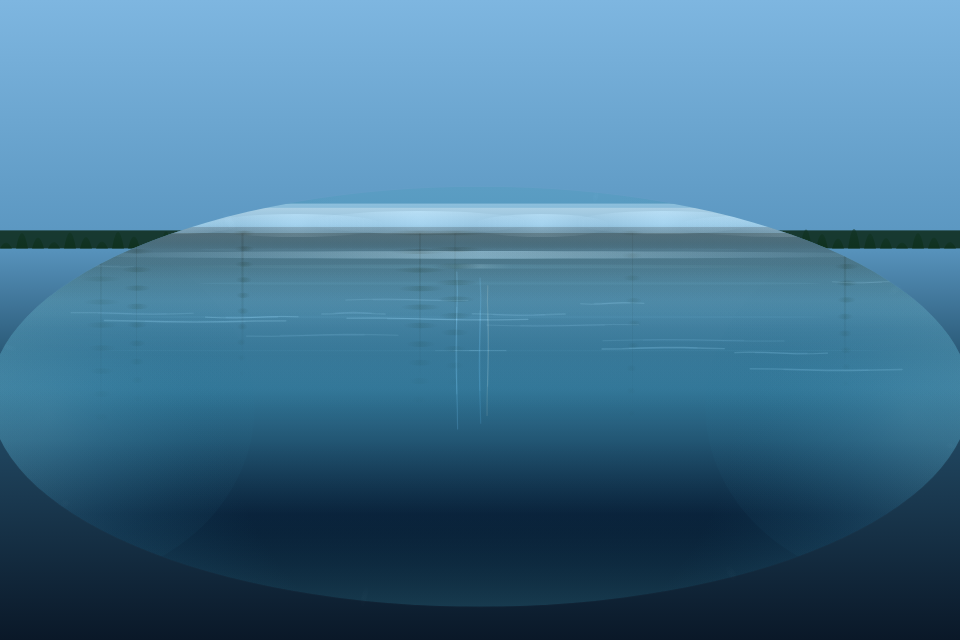
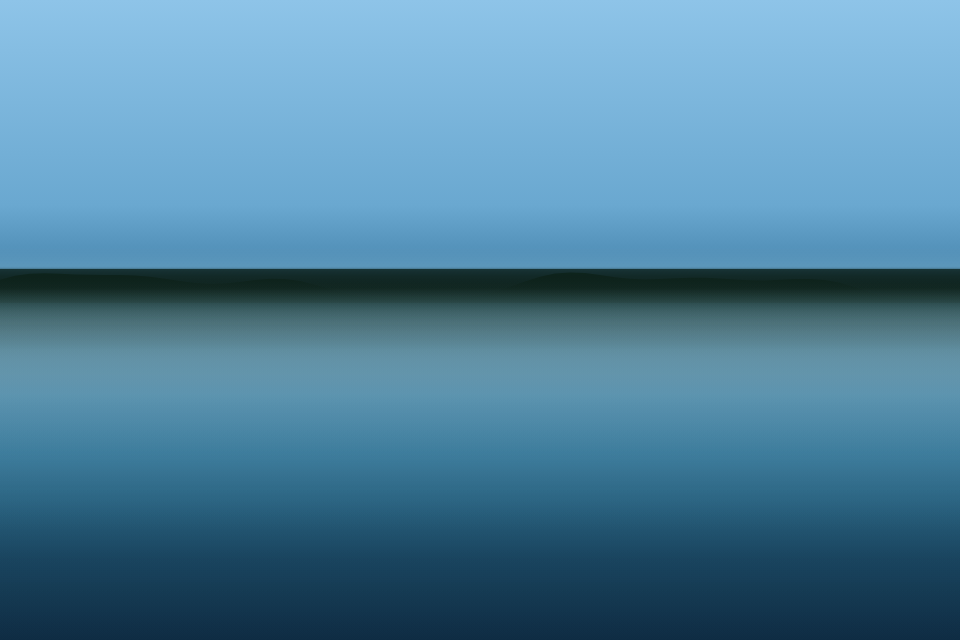
Polish lake: soft-rect mask, continuous mirror, Fresnel sky band
Replace oval/radial lens mask with feathered soft-rect alpha. Continuous
treeline+sky mirror without large oval sheets. Stronger Fresnel graze and
micro mottling. Capture bg uses soft continuous canopy; full-bleed low foam.

diff --git a/src/effects/water.ts b/src/effects/water.ts
@@ -218,9 +218,9 @@ function drawFresnel(
   const a = reflectivity * I;
 
   const graze = ctx.createLinearGradient(cx, cy - hh, cx, cy - hh * 0.1);
-  graze.addColorStop(0, withAlpha(colorHorizon, 0.38 * a * (0.7 + calm * 0.3)));
-  graze.addColorStop(0.3, withAlpha(colorSky, 0.28 * a));
-  graze.addColorStop(0.65, withAlpha(colorSky, 0.1 * a));
+  graze.addColorStop(0, withAlpha(colorHorizon, 0.48 * a * (0.7 + calm * 0.3)));
+  graze.addColorStop(0.25, withAlpha(colorSky, 0.35 * a));
+  graze.addColorStop(0.6, withAlpha(colorSky, 0.12 * a));
   graze.addColorStop(1, withAlpha(colorSky, 0));
   ctx.fillStyle = graze;
   ctx.fillRect(cx - hw, cy - hh, hw * 2, hh * 0.9);
@@ -258,12 +258,13 @@ function drawContinuousMirror(
 
   ctx.save();
 
-  // Sky mirror — continuous vertical flip of sky (muted; no bright rim)
+  // Sky mirror — continuous vertical flip of sky (pale band under trees)
   const sky = ctx.createLinearGradient(cx, waterline, cx, waterline + mirrorH);
-  sky.addColorStop(0, withAlpha(colorHorizon, 0.55 * a));
-  sky.addColorStop(0.08, withAlpha(colorSky, 0.58 * a));
-  sky.addColorStop(0.25, withAlpha(colorSky, 0.35 * a * (0.85 + calm * 0.15)));
-  sky.addColorStop(0.5, withAlpha(lerpColor(colorSky, params.material.baseColor, 0.4), 0.12 * a));
+  sky.addColorStop(0, withAlpha(colorHorizon, 0.2 * a));
+  sky.addColorStop(0.1, withAlpha(colorHorizon, 0.72 * a));
+  sky.addColorStop(0.2, withAlpha(lerpColor(colorHorizon, colorSky, 0.35), 0.68 * a));
+  sky.addColorStop(0.35, withAlpha(colorSky, 0.42 * a * (0.85 + calm * 0.15)));
+  sky.addColorStop(0.55, withAlpha(lerpColor(colorSky, params.material.baseColor, 0.35), 0.14 * a));
   sky.addColorStop(1, withAlpha(colorSky, 0));
   ctx.fillStyle = sky;
   ctx.fillRect(cx - hw, waterline, hw * 2, mirrorH);
@@ -275,7 +276,7 @@ function drawContinuousMirror(
 
 /**
  * One continuous canopy silhouette stretched downward — a soft mirrored band.
- * No jagged polygons / triangle stamps / glitch streaks.
+ * No jagged polygons / triangle stamps / glitch streaks / large oval sheets.
  */
 function drawContinuousTreelineMirror(
   ctx: CanvasRenderingContext2D,
@@ -288,52 +289,47 @@ function drawContinuousTreelineMirror(
   a: number,
   calm: number,
 ): void {
-  const stretch = 2.1 + calm * 0.3;
-  const canopyH = hh * 0.5 * stretch;
+  // Dense continuous mirrored forest — shorter so sky mirror shows below
+  const stretch = 1.65 + calm * 0.25;
+  const canopyH = hh * 0.32 * stretch;
   const wave = params.waveStrength;
+  const warp =
+    fbm2(0.5, t * 0.05 + params.seed * 0.001, 2, params.seed) * (1.2 + wave * 3);
 
-  // Core continuous mirrored forest — solid soft band (not discrete stamps)
-  const core = ctx.createLinearGradient(cx, waterline, cx, waterline + canopyH);
-  core.addColorStop(0, withAlpha('#06140e', 0.92 * a));
-  core.addColorStop(0.12, withAlpha('#0a1c14', 0.88 * a));
-  core.addColorStop(0.28, withAlpha('#0e281c', 0.55 * a));
-  core.addColorStop(0.5, withAlpha('#123024', 0.22 * a));
-  core.addColorStop(0.72, withAlpha('#0c2018', 0.06 * a));
+  // Core continuous mirrored forest — one soft vertical gradient only
+  const core = ctx.createLinearGradient(cx, waterline + warp * 0.15, cx, waterline + canopyH);
+  core.addColorStop(0, withAlpha('#06140e', 0.88 * a));
+  core.addColorStop(0.1, withAlpha('#0a1c14', 0.84 * a));
+  core.addColorStop(0.22, withAlpha('#0e281c', 0.52 * a));
+  core.addColorStop(0.42, withAlpha('#123024', 0.22 * a));
+  core.addColorStop(0.65, withAlpha('#0c2018', 0.06 * a));
   core.addColorStop(1, withAlpha('#081820', 0));
   ctx.fillStyle = core;
   ctx.fillRect(cx - hw, waterline, hw * 2, canopyH);
 
-  // Soft rolling bottom of canopy — overlapping soft lobes (continuous, not triangles)
-  const lobes = Math.max(24, Math.floor(hw / 14));
-  for (let i = 0; i < lobes; i++) {
-    const u = (i + 0.5) / lobes;
-    const x = cx - hw + u * hw * 2;
-    const n =
-      fbm2(u * 2.2, params.seed * 0.001, 3, params.seed) * 0.5 +
-      fbm2(u * 4.5, 0.1, 2, params.seed + 2) * 0.25;
-    const localH = canopyH * (0.42 + n * 0.22);
-    const wobble =
-      fbm2(u * 3, t * 0.04, 2, params.seed) * (1 + wave * 3) +
-      Math.sin(t * 0.18 + u * 5) * wave * 1.2;
-    const rw = (hw * 2) / lobes * 1.35;
-    const ry = waterline + localH + wobble;
-    const g = ctx.createRadialGradient(x, waterline + localH * 0.35, 0, x, ry, rw);
-    g.addColorStop(0, withAlpha('#0c2418', 0.35 * a * calm));
-    g.addColorStop(0.55, withAlpha('#0a1c14', 0.12 * a));
+  // Subtle horizontal density variation via soft full-width sheets (NOT large ovals)
+  for (let i = 0; i < 4; i++) {
+    const v = (i + 0.5) / 4;
+    const y = waterline + canopyH * (0.08 + v * 0.35);
+    const h = canopyH * (0.08 + (1 - v) * 0.06);
+    const sheetA = (0.1 - v * 0.06) * a * calm;
+    if (sheetA < 0.01) continue;
+    const n = fbm2(i * 0.7, t * 0.04, 2, params.seed + i);
+    const g = ctx.createLinearGradient(cx, y - h, cx, y + h);
+    g.addColorStop(0, withAlpha('#0c2418', 0));
+    g.addColorStop(0.5, withAlpha('#0a1c14', sheetA * (0.85 + n * 0.15)));
     g.addColorStop(1, withAlpha('#081820', 0));
     ctx.fillStyle = g;
-    ctx.beginPath();
-    ctx.ellipse(x, waterline + localH * 0.55, rw, localH * 0.55, 0, 0, Math.PI * 2);
-    ctx.fill();
+    ctx.fillRect(cx - hw, y - h, hw * 2, h * 2);
   }
 
   // Soft waterline seam — muted contact, not a bright rim
-  const seam = ctx.createLinearGradient(cx, waterline - 2, cx, waterline + hh * 0.12);
-  seam.addColorStop(0, withAlpha('#04120c', 0.18 * a));
-  seam.addColorStop(0.5, withAlpha('#0a1814', 0.06 * a));
+  const seam = ctx.createLinearGradient(cx, waterline - 2, cx, waterline + hh * 0.1);
+  seam.addColorStop(0, withAlpha('#04120c', 0.12 * a));
+  seam.addColorStop(0.55, withAlpha('#0a1814', 0.04 * a));
   seam.addColorStop(1, withAlpha('#081820', 0));
   ctx.fillStyle = seam;
-  ctx.fillRect(cx - hw, waterline - 2, hw * 2, hh * 0.14);
+  ctx.fillRect(cx - hw, waterline - 2, hw * 2, hh * 0.12);
 }
 
 /**
@@ -351,11 +347,12 @@ function drawMicroSurface(
   calm: number,
   reflectivity: number,
 ): void {
-  const strength = params.waveStrength * (0.15 + (1 - calm) * 0.7);
-  if (strength < 0.012) return;
+  const strength = Math.max(0.04, params.waveStrength * (0.25 + (1 - calm) * 0.7));
+  // Always allow subtle micro mottling on reflective lakes
+  if (strength < 0.008) return;
 
   ctx.save();
-  const patches = Math.max(4, Math.floor(5 + params.waveStrength * 4));
+  const patches = Math.max(6, Math.floor(7 + params.waveStrength * 5));
   for (let i = 0; i < patches; i++) {
     const phase = t * (0.1 + strength * 0.12) + i * 1.5 + params.seed * 0.0001;
     const u = (i + 0.3) / patches;
